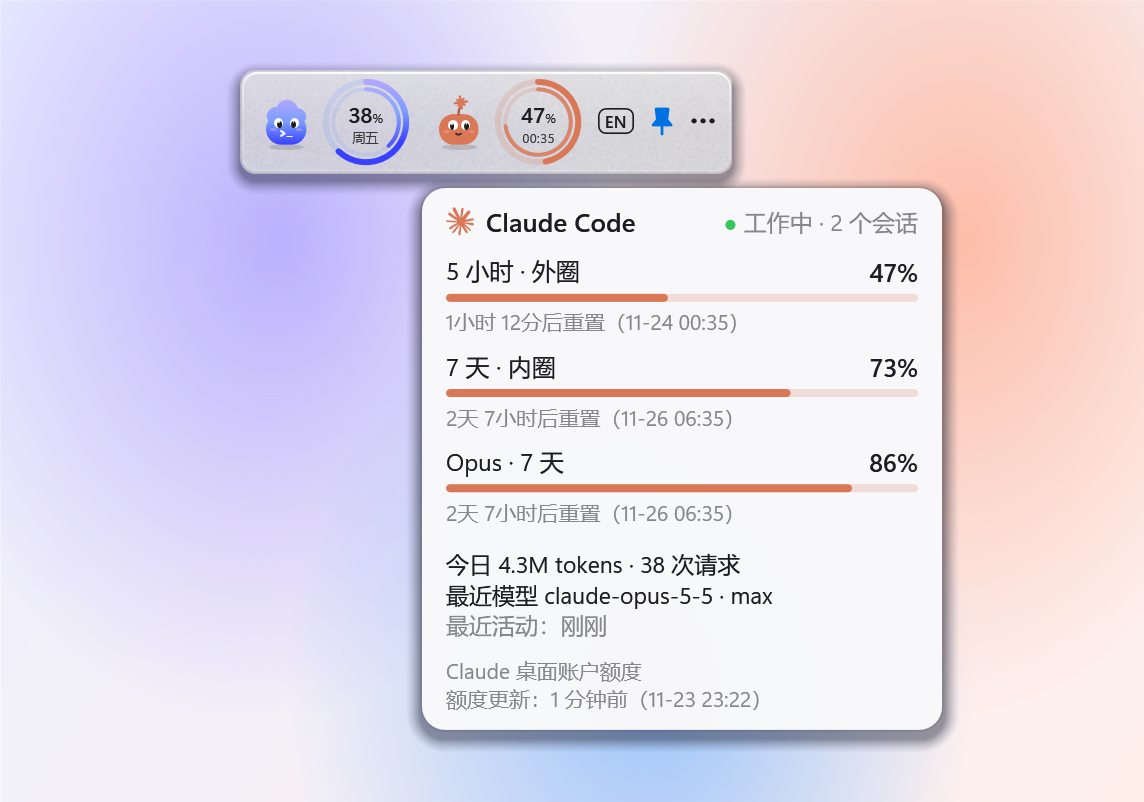
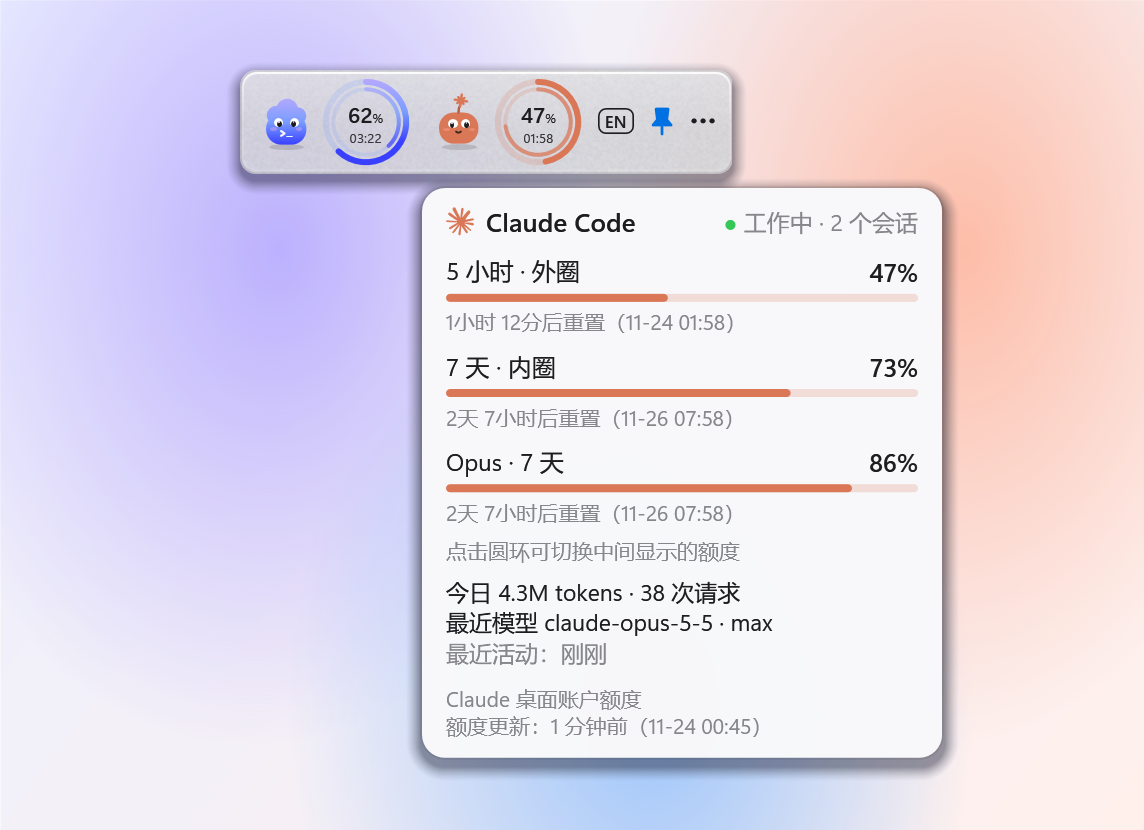
Show the 5-hour window in the ring by default; click a ring for 7 days
The middle of each ring showed whichever window had less left, which hid
the 5-hour percentage and reset time whenever the week was lower. It now
shows the 5-hour window by default. Clicking either ring switches every
ring's middle to the 7-day window and back; the choice is saved, and the
ring whose number is shown is drawn at full strength. A press that moves
the widget less than the system drag distance counts as a click and puts
the widget back where it was.

The pets still go by whichever window is closer to running out. The hover
card and the strip's tooltip mention the click. README text and widget
images (demo data) updated.

Changed region(s): [[0.2142, 0.0623, 0.826, 0.9352]]

diff --git a/desktop/test/BehaviorTests.cs b/desktop/test/BehaviorTests.cs
@@ -79,19 +79,24 @@ namespace AgentHud.Tests
             Check(freeRings.Outer.Percent == 100 && freeRings.Inner == null && freeRings.Center == freeRings.Outer && freeRings.Outer.Name == "30 天", "a plan with only a 30-day window gets a single ring for it");
             Check(RingValue.RingBadge(stamp(new DateTime(2026, 11, 24, 14, 2, 0, DateTimeKind.Local)), monday) == "11/24", "a reset weeks away shows its date instead of a weekday");
 
-            // Nested rings: 5 hours outside, the account's 7 days inside, the lower number in the middle.
+            // Nested rings: 5 hours outside and in the middle by default, the account's 7 days inside.
             var weekly = ProviderAt(now); weekly.limits.windows[1].resetsAt = now + 3 * 86400000.0;
             var rings = RingValue.Rings(weekly, now, true);
-            Check(rings.Outer.Percent == 80 && rings.Inner.Percent == 65 && rings.CenterInner && rings.Center.Percent == 65, "5 hours is the outer ring, 7 days the inner, and the lower one goes in the middle");
+            Check(rings.Outer.Percent == 80 && rings.Inner.Percent == 65 && !rings.CenterInner && rings.Center.Percent == 80, "5 hours is the outer ring and the middle by default, 7 days the inner ring");
             var nested = new QuotaRing { Platform = "Codex" };
             nested.Update(rings, false);
             var spoken = System.Windows.Automation.AutomationProperties.GetName(nested);
-            Check(nested.Percent == 80 && nested.HasInner && nested.InnerPercent == 65 && nested.Primary == "65%" && nested.Secondary.StartsWith("周"), "the ring draws both windows and shows the tighter one's number and reset day");
-            Check(spoken.Contains("剩余额度 65%") && spoken.Contains("外圈 5 小时 80%") && spoken.Contains("内圈 7 天 65%"), "screen readers hear the middle number and both rings");
+            Check(nested.Percent == 80 && nested.HasInner && nested.InnerPercent == 65 && !nested.CenterInner && nested.Primary == "80%" && nested.Secondary.Contains(":"), "the ring draws both windows and shows the 5-hour number and reset time");
+            Check(spoken.Contains("剩余额度 80%") && spoken.Contains("外圈 5 小时 80%") && spoken.Contains("内圈 7 天 65%"), "screen readers hear the middle number and both rings");
+            var switched = RingValue.Rings(weekly, now, true, true);
+            nested.Update(switched, false);
+            Check(switched.CenterInner && nested.CenterInner && nested.Primary == "65%" && nested.Secondary.StartsWith("周") && nested.Percent == 80 && nested.InnerPercent == 65, "switched, the middle shows the 7-day number and reset day while both arcs stay");
             nested.Update(freeRings, false);
-            Check(!nested.HasInner && nested.Primary == "100%", "the same ring drops back to a single window");
-            var tied = ProviderAt(now); tied.limits.windows[1].remainingPercent = 80;
-            Check(!RingValue.Rings(tied, now, true).CenterInner, "on a tie the outer ring keeps the middle");
+            Check(!nested.HasInner && !nested.CenterInner && nested.Primary == "100%", "the same ring drops back to a single window");
+            Check(!RingValue.Rings(free, now, true, true).CenterInner, "a single-window plan keeps its one window in the middle when switched");
+            Check(rings.Lowest == rings.Inner && switched.Lowest == switched.Inner, "the window closer to running out is found whatever the middle shows");
+            var tied = RingValue.Rings(ProviderAt(now), now, true); tied.Inner.Percent = 80;
+            Check(tied.Lowest == tied.Outer, "on a tie the outer window counts as the closer one");
             var scoped = ProviderAt(now); scoped.limits.windows[1].id = "seven_day_opus"; scoped.limits.windows[1].name = "Opus · 7 天";
             Check(RingValue.Rings(scoped, now, true).Inner == null, "a model-specific weekly window does not become the inner ring");
             var bucket = ProviderAt(now); bucket.limits.windows.Insert(0, new QuotaWindow { name = "Spark · 1 小时", windowMinutes = 60, remainingPercent = 5, resetsAt = now + 1800000 });
@@ -99,22 +104,22 @@ namespace AgentHud.Tests
             Check(bucketRings.Outer.Percent == 80 && bucketRings.Inner.Percent == 65, "a model's own shorter bucket does not take over the account's rings");
             var lapsed = ProviderAt(now); lapsed.limits.windows[0].resetsAt = now - 1;
             var lapsedRings = RingValue.Rings(lapsed, now, true);
-            Check(lapsedRings.CenterInner && lapsedRings.Center.Percent == 65, "a 5-hour snapshot past its reset leaves the 7-day number in the middle instead of a status word");
+            Check(!lapsedRings.Center.Percent.HasValue && lapsedRings.Center.Status == RingStatus.Expired && lapsedRings.Lowest.Percent == 65, "a 5-hour snapshot past its reset shows its status in the middle while the 7 days still count as closer");
             CheckWeeklyLimit(now);
 
             // Pets: an empty window beats work, work beats a low quota, and offline beats everything.
             var busy = ProviderAt(now); busy.activity = new Activity { working = true, activeSessions = 2, todayTokens = 1234567, todayRequests = 42, model = "gpt-6.1-sol", effort = "xhigh", lastActiveAt = now - 30000 };
-            var busyRing = RingValue.Rings(busy, now, true).Center;
+            var busyRing = RingValue.Rings(busy, now, true).Lowest;
             Check(AgentPet.MoodFor(busy, busyRing, true, now) == PetMood.Working, "a platform with a working session gets a working pet");
             Check(AgentPet.MoodFor(busy, busyRing, false, now) == PetMood.Offline, "an offline service greys the pet");
             busy.limits.windows[1].remainingPercent = 0;
-            Check(AgentPet.MoodFor(busy, RingValue.Rings(busy, now, true).Center, true, now) == PetMood.Exhausted, "any used-up window puts the pet to sleep, even while working");
+            Check(AgentPet.MoodFor(busy, RingValue.Rings(busy, now, true).Lowest, true, now) == PetMood.Exhausted, "any used-up window puts the pet to sleep, even while working");
             busy.limits.windows[1].remainingPercent = 65; busy.limits.windows[0].remainingPercent = 12; busy.activity.working = false;
-            Check(AgentPet.MoodFor(busy, RingValue.Rings(busy, now, true).Center, true, now) == PetMood.Tired, "under 20% left the idle pet is tired");
+            Check(AgentPet.MoodFor(busy, RingValue.Rings(busy, now, true, true).Lowest, true, now) == PetMood.Tired, "under 20% left the idle pet is tired, even while the middle shows the 7 days");
             busy.limits.windows[0].remainingPercent = 80; busy.limits.windows[1].remainingPercent = 15;
-            Check(AgentPet.MoodFor(busy, RingValue.Rings(busy, now, true).Center, true, now) == PetMood.Tired, "a low weekly balance tires the pet even with the 5 hours nearly full");
+            Check(AgentPet.MoodFor(busy, RingValue.Rings(busy, now, true).Lowest, true, now) == PetMood.Tired, "a low weekly balance tires the pet even with the 5 hours nearly full in the middle");
             busy.limits.windows[1].remainingPercent = 65;
-            Check(AgentPet.MoodFor(busy, RingValue.Rings(busy, now, true).Center, true, now) == PetMood.Idle, "otherwise the pet idles");
+            Check(AgentPet.MoodFor(busy, RingValue.Rings(busy, now, true).Lowest, true, now) == PetMood.Idle, "otherwise the pet idles");
             var pet = new AgentPet(false);
             foreach (PetMood mood in Enum.GetValues(typeof(PetMood))) { pet.SetMood(mood); pet.Pause(); pet.Resume(); }
             Check(pet.Mood == PetMood.Exhausted, "every pet mood can be shown, paused and resumed");
@@ -124,10 +129,11 @@ namespace AgentHud.Tests
             var card = AgentDetail.Build(busy, true, now, true, PetMood.Working);
             var cardText = String.Join("\n", Texts(card));
             Check(cardText.Contains("Codex") && cardText.Contains("5 小时 · 外圈") && cardText.Contains("7 天 · 内圈") && cardText.Contains("80%") && cardText.Contains("65%"), "the card lists every quota window and marks which ring each one is");
+            Check(cardText.Contains("点击圆环可切换中间显示的额度"), "the card says a click on a ring switches the middle");
             Check(cardText.Contains("后重置") && cardText.Contains("今日 1.2M tokens · 42 次请求") && cardText.Contains("gpt-6.1-sol · xhigh") && cardText.Contains("工作中 · 2 个会话") && cardText.Contains("Claude 桌面账户额度"), "the card shows resets, today's usage, the latest model, what the agents are doing and the source");
             var single = new Provider { id = "codex", limits = new Limits { collectedAt = now, windows = new List<QuotaWindow> { free.limits.windows[0], new QuotaWindow { name = "支出额度", remainingPercent = 40 } } } };
             var singleCard = String.Join("\n", Texts(AgentDetail.Build(single, true, now, true, PetMood.Idle)));
-            Check(singleCard.Contains("30 天 · 圆环显示") && singleCard.Contains("支出额度") && !singleCard.Contains("外圈"), "with a single ring the card marks the window in it");
+            Check(singleCard.Contains("30 天 · 圆环显示") && singleCard.Contains("支出额度") && !singleCard.Contains("外圈") && !singleCard.Contains("点击圆环"), "with a single ring the card marks the window in it and offers nothing to switch");
             var emptyCard = String.Join("\n", Texts(AgentDetail.Build(new Provider { id = "claude", quotaMessage = "未找到 Claude 桌面版登录连接，请先打开 Claude 并登录。" }, false, now, true, PetMood.Idle)));
             Check(emptyCard.Contains("未找到 Claude 桌面版登录连接"), "without a quota the card explains why");
 
@@ -145,7 +151,7 @@ namespace AgentHud.Tests
                 var enNested = new QuotaRing { Platform = "Codex" };
                 enNested.Update(RingValue.Rings(english, now, true), false);
                 var enSpoken = System.Windows.Automation.AutomationProperties.GetName(enNested);
-                Check(enSpoken.Contains("quota remaining 65%") && enSpoken.Contains("outer ring 5 hours 80%") && enSpoken.Contains("inner ring 7 days 65%"), "English screen-reader name covers both rings");
+                Check(enSpoken.Contains("quota remaining 80%") && enSpoken.Contains("outer ring 5 hours 80%") && enSpoken.Contains("inner ring 7 days 65%"), "English screen-reader name covers both rings");
                 var enRing = new QuotaRing { Platform = "Codex" };
                 enRing.Update(RingValue.Rings(english, now, false).Outer, true);
                 Check(enRing.Secondary == "Offline", "English offline word in the ring");
@@ -158,7 +164,7 @@ namespace AgentHud.Tests
                 Check(enRing.Primary == "Setup" && setupRing.Detail.StartsWith("The Claude desktop account connection"), "English status words come from status codes, not Chinese captions");
                 busy.activity.todayRequests = 1;
                 var enCard = String.Join("\n", Texts(AgentDetail.Build(busy, true, now, true, PetMood.Working)));
-                Check(enCard.Contains("Today 1.2M tokens · 1 request") && enCard.Contains("5 hours · outer ring") && enCard.Contains("7 days · inner ring") && enCard.Contains("Working · 2 sessions"), "the card speaks English too");
+                Check(enCard.Contains("Today 1.2M tokens · 1 request") && enCard.Contains("5 hours · outer ring") && enCard.Contains("7 days · inner ring") && enCard.Contains("Click a ring to switch") && enCard.Contains("Working · 2 sessions"), "the card speaks English too");
                 Check(Lang.Server("5 小时") == "5 hours" && Lang.Server("7 天") == "7 days" && Lang.Server("Opus · 7 天") == "Opus · 7 days" && Lang.Server("30 天") == "30 days" && Lang.Server("90 分钟") == "90 min" && Lang.Server("支出额度") == "Spend limit", "the service's window names are translated");
             }
             finally { Lang.Apply("zh"); }
@@ -266,7 +272,19 @@ namespace AgentHud.Tests
             Field("online").SetValue(hud, true);
             Call(hud, "RenderData");
             var ring = (QuotaRing)Field("codex").GetValue(hud);
-            Check(ring.Percent == 80 && ring.InnerPercent == 65 && ring.Primary == "65%", "visible widget consumes latest snapshot: 5 hours outside, 7 days inside, the lower in the middle");
+            Check(ring.Percent == 80 && ring.InnerPercent == 65 && ring.Primary == "80%", "visible widget consumes latest snapshot: 5 hours outside and in the middle, 7 days inside");
+            // A click on either ring switches the middles; it lands on the ring's circle, not on the pet beside it.
+            var capsule = (FrameworkElement)Field("capsule").GetValue(hud);
+            var pet = (FrameworkElement)Field("codexPet").GetValue(hud);
+            var under = typeof(HudWindow).GetMethod("RingUnder", BindingFlags.NonPublic | BindingFlags.Instance);
+            Check(under.Invoke(hud, new object[] { ring.TranslatePoint(new Point(QuotaRing.Diameter / 2, QuotaRing.Diameter / 2), capsule) }) == ring
+                && under.Invoke(hud, new object[] { pet.TranslatePoint(new Point(pet.ActualWidth / 2, pet.ActualHeight / 2), capsule) }) == null, "a press counts as a ring click only inside the ring");
+            Check(ring.Cursor == System.Windows.Input.Cursors.Hand, "the rings show a hand once a click can switch them");
+            Call(hud, "ToggleCenter");
+            var stateFile = System.IO.Path.Combine((string)Field("dataDir").GetValue(hud), "widget-state.json");
+            Check(ring.Primary == "65%" && ring.CenterInner && System.IO.File.ReadAllText(stateFile).Contains("\"center\":\"inner\""), "clicking a ring switches the middles to 7 days and remembers it");
+            Call(hud, "ToggleCenter");
+            Check(ring.Primary == "80%" && !ring.CenterInner && System.IO.File.ReadAllText(stateFile).Contains("\"center\":\"outer\""), "a second click switches back to 5 hours");
             hud.Hide(); Pump();
             provider.limits.windows[0].remainingPercent = 30;
             Call(hud, "RenderData");

diff --git a/desktop/Widget.cs b/desktop/Widget.cs
@@ -256,9 +256,43 @@ namespace AgentHud
             {
                 DependencyObject node = e.OriginalSource as DependencyObject;
                 while (node != null && node != capsule) { if (node is Button) return; node = VisualTreeHelper.GetParent(node); }
-                if (e.ButtonState == MouseButtonState.Pressed) { try { placement.CompleteReanchor(); DragMove(); placement.EnsureVisible(true); SaveState(); CheckDock(); } catch (InvalidOperationException) { } }
+                if (e.ButtonState != MouseButtonState.Pressed) return;
+                var ring = RingUnder(e.GetPosition(capsule));
+                try
+                {
+                    placement.CompleteReanchor();
+                    double left = Left, top = Top;
+                    DragMove();
+                    // Pressed on a ring and let go within the system's drag distance: a click, which switches the
+                    // middles. The widget goes back to where it was, so a slight wobble doesn't nudge it.
+                    if (ring != null && Math.Abs(Left - left) <= SystemParameters.MinimumHorizontalDragDistance && Math.Abs(Top - top) <= SystemParameters.MinimumVerticalDragDistance)
+                    {
+                        if (Left != left || Top != top) { Left = left; Top = top; }
+                        ToggleCenter(); return;
+                    }
+                    placement.EnsureVisible(true); SaveState(); CheckDock();
+                }
+                catch (InvalidOperationException) { }
             };
             return capsule;
+        }
+        // The ring whose circle contains this point of the capsule, if any.
+        QuotaRing RingUnder(Point point)
+        {
+            foreach (var ring in new[] { codex, claude })
+            {
+                if (!ring.IsVisible) continue;
+                var local = capsule.TranslatePoint(point, ring);
+                var dx = local.X - ring.ActualWidth / 2; var dy = local.Y - ring.ActualHeight / 2;
+                if (dx * dx + dy * dy <= QuotaRing.Diameter * QuotaRing.Diameter / 4) return ring;
+            }
+            return null;
+        }
+        // The middle of every ring shows the 5-hour window or the 7-day one; a click on any ring switches all of them.
+        void ToggleCenter()
+        {
+            saved.center = saved.center == "inner" ? "outer" : "inner";
+            SaveState(); RenderData();
         }
 
         // Pet and ring for one platform; hovering either shows the platform's card.
@@ -500,11 +534,15 @@ namespace AgentHud
             if (!IsVisible || exiting) return;
             var now = RingValue.Now();
             var cp = ProviderFor("codex"); var ap = ProviderFor("claude");
-            var c = RingValue.Rings(cp, now, online);
-            var a = RingValue.Rings(ap, now, online);
+            var showInner = saved.center == "inner";
+            var c = RingValue.Rings(cp, now, online, showInner);
+            var a = RingValue.Rings(ap, now, online, showInner);
             codex.Update(c, !online); claude.Update(a, !online);
-            // The pets go by the number in the middle: the window that runs out first.
-            codexPet.SetMood(AgentPet.MoodFor(cp, c.Center, online, now)); claudePet.SetMood(AgentPet.MoodFor(ap, a.Center, online, now));
+            // A hand over the rings once a click has something to switch.
+            var switchable = c.Inner != null || a.Inner != null;
+            foreach (var ring in new[] { codex, claude }) ring.Cursor = switchable ? Cursors.Hand : null;
+            // The pets go by whichever window is closer to running out, whatever the middle shows.
+            codexPet.SetMood(AgentPet.MoodFor(cp, c.Lowest, online, now)); claudePet.SetMood(AgentPet.MoodFor(ap, a.Lowest, online, now));
             RefreshCard(true, false); RefreshCard(false, false);
             var scanStale = snapshot != null && (!snapshot.collectedAt.HasValue || now - snapshot.collectedAt.Value > 30000);
             // Offline: orange edge *and* the word "离线" under each ring — colour is never the only signal.
@@ -517,7 +555,7 @@ namespace AgentHud
                     : snapshot.loading ? Lang.T("正在读取额度", "Reading quotas")
                     : scanStale ? Lang.T("会话扫描延迟，额度不受影响", "Session scan delayed; quotas are unaffected")
                     : Lang.T("每 5 秒读取本地快照；平台额度按各自频率更新", "Reads the local snapshot every 5 s; each platform's quota updates on its own schedule"))
-                + (c.Inner != null || a.Inner != null ? Lang.T("\n外圈 5 小时、内圈 7 天，中间显示剩余较少的那个", "\nOuter ring 5-hour, inner ring 7-day; the middle shows whichever has less left") : "")
+                + (switchable ? Lang.T("\n外圈 5 小时、内圈 7 天；点击圆环切换中间显示哪一个", "\nOuter ring 5-hour, inner ring 7-day; click a ring to switch which one the middle shows") : "")
                 + Lang.T("\n悬停宠物或圆环查看该 agent 的详情", "\nHover a pet or ring for that agent's details");
             if (!Equals(capsule.ToolTip, detail)) capsule.ToolTip = detail;
         }

diff --git a/desktop/QuotaRing.cs b/desktop/QuotaRing.cs
@@ -9,7 +9,8 @@ namespace AgentHud
 {
     // Remaining quota in the platform's own colours. The outer ring is the platform's shortest window
     // (5 hours on most plans); a longer account-wide window (7 days) is a thinner ring inside it. The middle
-    // shows whichever has less left, with its reset time under it. The pet beside the ring names the platform.
+    // shows one of them, the outer by default, with its reset time under it, and that ring is drawn at full
+    // strength. The pet beside the ring names the platform.
     public class QuotaRing : FrameworkElement
     {
         // Animated stand-ins for the two percentages, so the arcs move to new values instead of jumping.
@@ -33,6 +34,8 @@ namespace AgentHud
         public bool Stale { get; private set; }
         public bool HasInner { get; private set; }
         public double? InnerPercent { get; private set; }
+        // Whether the middle shows the inner ring's window.
+        public bool CenterInner { get; private set; }
         bool innerStale, centerStale;
         double? centerPercent;
         public string Platform { get; set; }
@@ -69,12 +72,13 @@ namespace AgentHud
             var innerValue = set.Inner;
             var center = set.Center ?? outerValue;
             var innerPercent = innerValue == null ? null : innerValue.Percent;
+            var innerCenter = set.CenterInner && innerValue != null;
             var changed = Percent != outerValue.Percent;
             var innerChanged = HasInner != (innerValue != null) || InnerPercent != innerPercent;
-            var styleChanged = Stale != outerValue.Stale || innerStale != (innerValue != null && innerValue.Stale) || centerStale != center.Stale || centerPercent != center.Percent;
+            var styleChanged = Stale != outerValue.Stale || innerStale != (innerValue != null && innerValue.Stale) || centerStale != center.Stale || centerPercent != center.Percent || CenterInner != innerCenter;
             Percent = outerValue.Percent; Stale = outerValue.Stale;
             HasInner = innerValue != null; InnerPercent = innerPercent; innerStale = innerValue != null && innerValue.Stale;
-            centerPercent = center.Percent; centerStale = center.Stale;
+            CenterInner = innerCenter; centerPercent = center.Percent; centerStale = center.Stale;
             string primary, secondary;
             if (center.Percent.HasValue)
             {
@@ -126,9 +130,9 @@ namespace AgentHud
             base.OnRender(dc);
             const double half = Diameter / 2;
             var middle = new Point(half, half);
-            DrawRing(dc, outer, middle, OuterRadius, OuterThickness, Percent, Stale, Display, 1);
-            // The inner ring sits a step back, so the two read as one gauge with a secondary scale.
-            if (HasInner) DrawRing(dc, inner, middle, InnerRadius, InnerThickness, InnerPercent, innerStale, DisplayInner, 0.8);
+            // The ring whose number is in the middle is drawn at full strength, the other a step back.
+            DrawRing(dc, outer, middle, OuterRadius, OuterThickness, Percent, Stale, Display, CenterInner ? 0.7 : 1);
+            if (HasInner) DrawRing(dc, inner, middle, InnerRadius, InnerThickness, InnerPercent, innerStale, DisplayInner, CenterInner ? 1 : 0.7);
 
             if (TextBrush == null || Primary == null) return;
             // Inside the inner ring everything is a size smaller, to stay clear of it.

diff --git a/desktop/Models.cs b/desktop/Models.cs
@@ -62,16 +62,20 @@ namespace AgentHud
         public string language { get; set; }
         // "left" / "right" when docked to that side of the screen (vertical layout); null otherwise.
         public string dock { get; set; }
-        public WidgetState() { pinned = true; language = "auto"; }
+        // What the middle of the rings shows: "outer" (the 5-hour window) or "inner" (7 days). A click on a ring switches it.
+        public string center { get; set; }
+        public WidgetState() { pinned = true; language = "auto"; center = "outer"; }
     }
     // One platform's rings. The outer ring is its shortest window (5 hours on most plans); the thinner inner
     // ring is the account-wide window after it (7 days), when the plan has one. The middle of the ring shows
-    // whichever has less left, since that is the one that runs out first.
+    // the outer window's number and reset, or the inner one's once the user switches to it.
     public class RingSet
     {
         public RingValue Outer, Inner;
         public bool CenterInner;
         public RingValue Center { get { return CenterInner ? Inner : Outer; } }
+        // The window closer to running out, which sets the pet's mood: a number beats a status word, then the lower number.
+        public RingValue Lowest { get { return Inner != null && Inner.Percent.HasValue && (!Outer.Percent.HasValue || Inner.Percent.Value < Outer.Percent.Value) ? Inner : Outer; } }
     }
     public static class RingStatus
     {
@@ -93,14 +97,14 @@ namespace AgentHud
         static readonly string[] WeekDaysZh = { "周日", "周一", "周二", "周三", "周四", "周五", "周六" };
         static readonly string[] WeekDaysEn = { "Sun", "Mon", "Tue", "Wed", "Thu", "Fri", "Sat" };
 
-        public static RingSet Rings(Provider provider, double now, bool online)
+        // showInner: the middle shows the inner window instead of the outer one (plans with a single window ignore it).
+        public static RingSet Rings(Provider provider, double now, bool online, bool showInner = false)
         {
             var windows = provider == null || provider.limits == null ? null : provider.limits.windows;
             var outer = OuterWindow(windows);
             var inner = InnerWindow(windows, outer);
             var set = new RingSet { Outer = ForWindow(provider, outer, now, online), Inner = inner == null ? null : ForWindow(provider, inner, now, online) };
-            // A number beats a status word in the middle; between two numbers the lower one goes there.
-            set.CenterInner = set.Inner != null && set.Inner.Percent.HasValue && (!set.Outer.Percent.HasValue || set.Inner.Percent.Value < set.Outer.Percent.Value);
+            set.CenterInner = showInner && set.Inner != null;
             return set;
         }
 

diff --git a/desktop/AgentDetail.cs b/desktop/AgentDetail.cs
@@ -55,6 +55,12 @@ namespace AgentHud
                         : window == outer ? Lang.T(" · 外圈", " · outer ring") : window == inner ? Lang.T(" · 内圈", " · inner ring") : "";
                     card.Children.Add(WindowRow(window, role, codex, now, RingValue.WeeklyBlocker(limits, window, now)));
                 }
+                if (inner != null)
+                {
+                    var hint = Text(Lang.T("点击圆环可切换中间显示的额度", "Click a ring to switch the middle number"), 10.5, FontWeights.Normal, true);
+                    hint.Margin = new Thickness(0, -2, 0, 2);
+                    card.Children.Add(hint);
+                }
             }
             else
             {

diff --git a/README.md b/README.md
@@ -20,7 +20,7 @@
 </p>
 
 <p align="center">
-  <img src="docs/images/widget-hover-en.png" width="640" alt="Desktop widget: a pet and nested quota rings for Codex and for Claude, the 5-hour window outside and the 7-day window inside, with the lower remaining percentage and its reset time in the middle; hovering Claude shows its card with every quota window marked by its ring, what its agents are doing, today's usage and the latest model">
+  <img src="docs/images/widget-hover-en.png" width="640" alt="Desktop widget: a pet and nested quota rings for Codex and for Claude, the 5-hour window outside and the 7-day window inside, with the 5-hour percentage and reset time in the middle; hovering Claude shows its card with every quota window marked by its ring, what its agents are doing, today's usage and the latest model">
 </p>
 
 <p align="center">
@@ -34,7 +34,7 @@
 
 ## Highlights
 
-- 🪟 **Desktop widget** — an acrylic-style glass strip with brand-colored nested rings per platform (5-hour outside, 7-day inside, whichever has less left in the middle with its reset time) and a pet that works, rests and falls asleep with its agents; hover for details, and drop it on a side of the screen for a column.
+- 🪟 **Desktop widget** — an acrylic-style glass strip with brand-colored nested rings per platform (5-hour outside, 7-day inside; the middle shows the 5-hour number and reset time, or the 7-day one at a click) and a pet that works, rests and falls asleep with its agents; hover for details, and drop it on a side of the screen for a column.
 - 📊 **Dashboard** — account quotas, token usage, cache hit rate, a seven-day chart, usage by model, thinking effort or project, and every agent session, in light or dark.
 - 🔒 **Local only** — reads your own Codex / Claude Code logs, binds to 127.0.0.1, never stores prompts or credentials.
 - 📌 **Stays out of the way** — one-click pin, snaps to screen edges, restarts its own service if it stops.
@@ -81,7 +81,7 @@ The widget is a 246 × 52 DIP glass strip in the style of Windows 11's acrylic. 
 Each platform has a pet, and its pose says what that platform's agents are doing. Codex's is a blue-violet cloud with a `>_` mouth; Claude's is an orange blob with a sparkle on a sprout.
 - **Working:** it hops while an agent is working, meaning a session wrote to its log in the last two minutes and hasn't finished its turn. Claude's sparkle spins and Codex's cursor blinks.
 - **Idle:** it breathes and blinks.
-- **Low:** under 20% left it gets sleepy and sweats.
+- **Low:** when either ring is under 20% it gets sleepy and sweats.
 - **Out of quota:** when any quota window is used up, it melts flat and falls asleep with drifting "z z Z".
 - **Offline:** when the local service is offline, it greys out.
 
@@ -95,7 +95,7 @@ Hover a pet or ring for that platform's card:
 
 Drag empty space to move it. On release it snaps to the edge of the screen's work area when close. Dropped against the left or right edge, it turns into a 58 × 260 DIP column, pets above rings and buttons below, and its cards and menu open toward the screen; dragged away from the edge, it becomes a strip again. It remembers the monitor, relative position and layout. Restored positions avoid the taskbar and gaps between monitors, are corrected after display or scaling changes, and fall back to the primary screen if the original one is gone. Both the ⋯ menu and the tray menu offer *Reset widget position*.
 
-Each platform's outer ring is its 5-hour window, and the thinner ring inside it is the account-wide 7-day window; model-specific windows, such as Claude's Opus week, are listed in the card. The middle shows whichever has less left, since that one runs out first (red below 20%). Under it is that window's reset time: the clock time within a day ("14:30"), the weekday within the coming week ("Thu"), otherwise the date ("11/24"). A plan with a single window, such as ChatGPT's free plan with its 30-day window, gets a single ring. Under the number the ring reads "Offline" when the local service is offline, and "left" when the platform gives no reset time. Local snapshots are read every 5 seconds; Codex's official quota is normally queried about once a minute and Claude's desktop quota about every 5 minutes, and both may lag when connections fail. An unknown time is never shown as "just now".
+Each platform's outer ring is its 5-hour window, and the thinner ring inside it is the account-wide 7-day window; model-specific windows, such as Claude's Opus week, are listed in the card. The middle shows the 5-hour window's remaining percentage (red below 20%) with its reset time under it. Click either ring to switch every ring's middle to the 7-day window, and again to switch back; the choice is remembered, and the ring whose number is in the middle is drawn at full strength. Reset times read as the clock time within a day ("14:30"), the weekday within the coming week ("Thu"), otherwise the date ("11/24"). A plan with a single window, such as ChatGPT's free plan with its 30-day window, gets a single ring. Under the number the ring reads "Offline" when the local service is offline, and "left" when the platform gives no reset time. Local snapshots are read every 5 seconds; Codex's official quota is normally queried about once a minute and Claude's desktop quota about every 5 minutes, and both may lag when connections fail. An unknown time is never shown as "just now".
 
 A solid blue pin means always-on-top; a hollow pin with a slash means not pinned. Click the pin once to pin, again to unpin. The ⋯ at the end of the strip opens the menu: toggle always-on-top, open the dashboard or the Codex / Claude usage pages, hide to the tray, reset the position, or quit.
 

diff --git a/README.zh-CN.md b/README.zh-CN.md
@@ -20,7 +20,7 @@
 </p>
 
 <p align="center">
-  <img src="docs/images/widget-hover-zh.png" width="640" alt="桌面小组件：Codex 和 Claude 各有一个宠物和一组双层额度圆环，外圈是 5 小时额度、内圈是 7 天额度，中间显示剩余较少的百分比和它的重置时间；悬停 Claude 时弹出详情卡片，标出每个额度窗口对应的圆环，并显示 agent 当前状态、今日用量和最近模型">
+  <img src="docs/images/widget-hover-zh.png" width="640" alt="桌面小组件：Codex 和 Claude 各有一个宠物和一组双层额度圆环，外圈是 5 小时额度、内圈是 7 天额度，中间显示 5 小时额度的百分比和重置时间；悬停 Claude 时弹出详情卡片，标出每个额度窗口对应的圆环，并显示 agent 当前状态、今日用量和最近模型">
 </p>
 
 <p align="center">
@@ -34,7 +34,7 @@
 
 ## 亮点
 
-- 🪟 **桌面小组件**：亚克力风格的玻璃横条，每个平台一组品牌色双层圆环（外圈 5 小时、内圈 7 天，中间显示剩余较少的那个及其重置时间）和一只会随 agent 工作、休息、累倒睡着的宠物；悬停查看详情，拖到屏幕左右边缘变成竖排。
+- 🪟 **桌面小组件**：亚克力风格的玻璃横条，每个平台一组品牌色双层圆环（外圈 5 小时、内圈 7 天；中间显示 5 小时的剩余和重置时间，点一下圆环切换为 7 天）和一只会随 agent 工作、休息、累倒睡着的宠物；悬停查看详情，拖到屏幕左右边缘变成竖排。
 - 📊 **完整面板**：账户额度、token 用量、缓存命中率、7 天用量轨迹、按模型 / 思考力度 / 项目的用量和每个 agent 会话，支持浅色与深色。
 - 🔒 **只在本机**：读取你自己的 Codex / Claude Code 日志，仅绑定 127.0.0.1，不保存提示词或登录凭据。
 - 📌 **不打扰**：一键置顶、靠近屏幕边缘自动贴边，服务停了会自己重启。
@@ -81,7 +81,7 @@
 每个平台都有一只宠物，它的姿态反映该平台 agent 正在做什么。Codex 的是一朵蓝紫色的云，嘴巴是 `>_`；Claude 的是一团橙色的小家伙，头顶的嫩芽上开着一朵火花。
 - **工作中：** 有 agent 在工作时它会蹦跳（会话在 2 分钟内写过日志且这一轮还没结束）。Claude 的火花会转，Codex 的光标会闪。
 - **空闲：** 它会呼吸、眨眼。
-- **额度偏低：** 剩余低于 20% 时它会犯困冒汗。
+- **额度偏低：** 任一圆环剩余低于 20% 时它会犯困冒汗。
 - **额度用尽：** 任一额度窗口用尽时，它会瘫成一摊睡着，头顶飘出“z z Z”。
 - **服务离线：** 本地服务离线时它会变灰。
 
@@ -95,7 +95,7 @@
 
 按住空白处拖动可移动，松手时靠近屏幕工作区边缘会贴边。拖到屏幕左边或右边贴边时，它会变成 58 × 260 DIP 的竖排：宠物在圆环上方，按钮在下方，详情卡片和菜单朝屏幕内侧弹出；拖离边缘后恢复横条。显示器、相对位置和横竖样式都会自动保存。恢复位置会避开任务栏和多屏之间的空隙；显示器或缩放变化后重新校正，找不到原屏幕时回到主屏。⋯ 菜单和托盘菜单均提供“重置小组件位置”。
 
-每个平台的外圈是 5 小时额度，里面较细的内圈是整个账户的 7 天额度；只针对某个模型的额度（例如 Claude 的 Opus 周额度）列在详情卡片里。中间显示剩余较少的那个，因为它会先用完（低于 20% 变红）。数字下方是这个额度的重置时间：一天内显示具体时刻（如“14:30”），一周内显示星期（如“周四”），更远显示日期（如“11/24”）。只有一个额度周期的套餐（例如 ChatGPT 免费版只有一个 30 天额度）只显示一个圆环。本地服务离线时数字下方显示“离线”，平台未提供重置时间时显示“剩余”。本地快照每 5 秒读取一次，Codex 官方额度正常约每分钟查询、Claude 桌面额度正常约每 5 分钟查询，连接失败时可能延迟。未知时间不会显示成“刚刚”。
+每个平台的外圈是 5 小时额度，里面较细的内圈是整个账户的 7 天额度；只针对某个模型的额度（例如 Claude 的 Opus 周额度）列在详情卡片里。中间显示 5 小时额度的剩余百分比（低于 20% 变红），下方是它的重置时间。点击任一圆环，所有圆环中间都切换为 7 天额度，再点一下切回；选择会被保存，中间数字对应的那一圈以全亮度显示。重置时间一天内显示具体时刻（如“14:30”），一周内显示星期（如“周四”），更远显示日期（如“11/24”）。只有一个额度周期的套餐（例如 ChatGPT 免费版只有一个 30 天额度）只显示一个圆环。本地服务离线时数字下方显示“离线”，平台未提供重置时间时显示“剩余”。本地快照每 5 秒读取一次，Codex 官方额度正常约每分钟查询、Claude 桌面额度正常约每 5 分钟查询，连接失败时可能延迟。未知时间不会显示成“刚刚”。
 
 蓝色实心图钉表示已置顶，带斜线的空心图钉表示未置顶；点一下图钉即切换置顶，再点一下取消。横条末端的 ⋯ 打开菜单，可切换置顶、打开面板或 Codex / Claude 官方用量页、收起至托盘、重置位置或退出。
 
